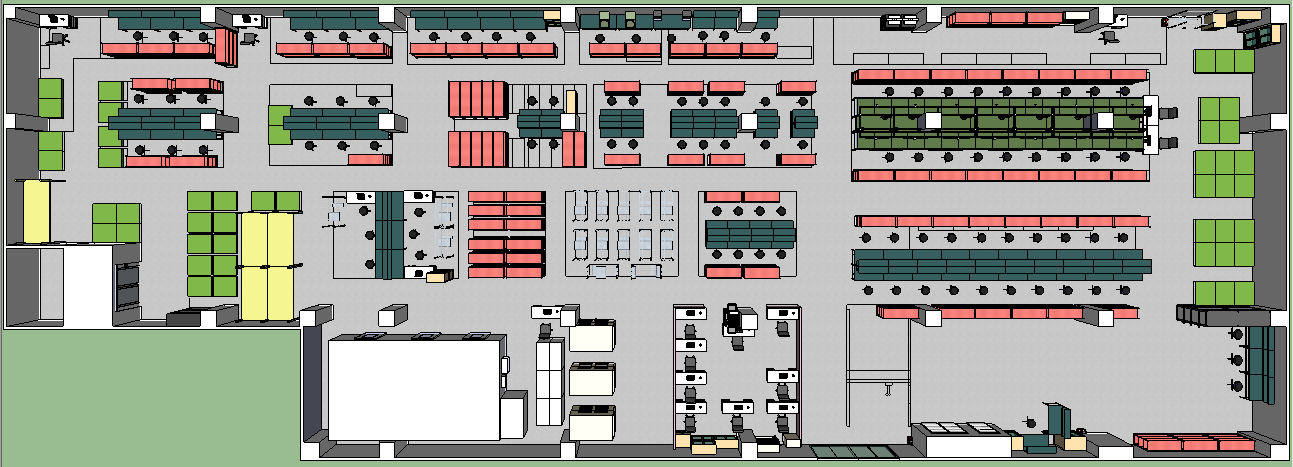
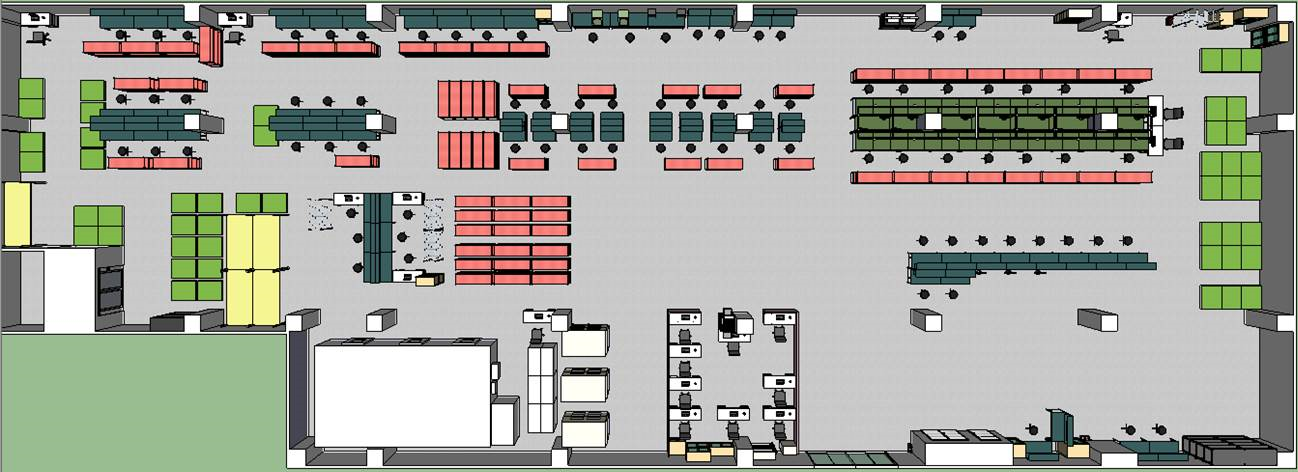
TotalMap update complete

diff --git a/src/main/webapp/js/totalMap-setting/6f.js b/src/main/webapp/js/totalMap-setting/6f.js
@@ -3,44 +3,38 @@ var pYa = 0;
 
 var mapInfo = {
     titleName: "東湖廠6樓",
-    x: 950,
-    y: 50
+    x: 30,
+    y: 395
 };
 
 var titleGroup = [
     //assy
-    {lineName: "L1", x: 810, y: 265},
-    {lineName: "L2", x: 810, y: 175},
-    {lineName: "L3", x: 810, y: 105},
-    {lineName: "L4", x: 810, y: 25},
+    {lineName: "L1", x: 1055, y: 260},
+    {lineName: "L2", x: 1055, y: 155},
+    {lineName: "L3", x: 1055, y: 90},
+    {lineName: "L4", x: 1055, y: 0},
     //pkg
-    {lineName: "L6", x: 90, y: 235},
-    {lineName: "L7", x: 90, y: 150},
-    {lineName: "L8", x: 285, y: 175},
-    {lineName: "L9", x: 285, y: 290},
-    {lineName: "CELL", x: 980, y: 185}
+    {lineName: "L6", x: 310, y: 195},
+    {lineName: "L7", x: 310, y: 100},
+    {lineName: "L8", x: 510, y: 160},
+    {lineName: "L9", x: 510, y: 290}
+//    {lineName: "CELL", x: 980, y: 185}
 ];
 var testGroup = [
-    {people: 4, x: 315, y: 80}, // group 39-42
-    {people: 4, x: 315, y: 130}, // group 35-38
-    {people: 5, x: 350, y: 200}, // group 30-34
-    {people: 5, x: 350, y: 280} // group 25-29
+    {people: 4, x: 545, y: 15}, // group 39-42
+    {people: 4, x: 545, y: 105}, // group 35-38
+    {people: 5, x: 590, y: 180}, // group 30-34
+    {people: 5, x: 595, y: 275} // group 25-29
 ];
 var babGroup = [
-    {people: 8, x: 530, y: 270, lineName: "L1"},
-    {people: 8, x: 530, y: 190, lineName: "L2"},
-    {people: 7, x: 530, y: 130, lineName: "L3"},
-    {people: 7, x: 530, y: 50, lineName: "L4"},
-    {people: 3, x: 0, y: 200, lineName: "L6"},
-    {people: 3, x: 8, y: 115, lineName: "L7"},
-    {people: 4, x: 145, y: 200, lineName: "L8"},
-    {people: 4, x: 135, y: 290, lineName: "L9"},
-    {people: 1, x: 910, y: 290, lineName: "CELL-10"},
-    {people: 1, x: 990, y: 290, lineName: "CELL-11"},
-    {people: 1, x: 1070, y: 290, lineName: "CELL-12"},
-    {people: 1, x: 1150, y: 290, lineName: "CELL-13"},
-    {people: 1, x: 890, y: 430, lineName: "CELL-14"},
-    {people: 1, x: 960, y: 430, lineName: "CELL-15"}
+    {people: 8, x: 770, y: 260, lineName: "L1"},
+    {people: 8, x: 770, y: 165, lineName: "L2"},
+    {people: 7, x: 770, y: 105, lineName: "L3"},
+    {people: 7, x: 770, y: 10, lineName: "L4"},
+    {people: 3, x: 205, y: 180, lineName: "L6"},
+    {people: 3, x: 205, y: 105, lineName: "L7"},
+    {people: 4, x: 365, y: 175, lineName: "L8"},
+    {people: 4, x: 365, y: 275, lineName: "L9"}
 ];
 
 var maxTestTableNo = 42;

diff --git a/src/main/webapp/js/totalMap-setting/5f.js b/src/main/webapp/js/totalMap-setting/5f.js
@@ -3,38 +3,35 @@ var pYa = -0;
 
 var mapInfo = {
     titleName: "東湖廠5樓",
-    x: 50,
-    y: 400
+    x: 30,
+    y: 395
 };
 
 var titleGroup = [
     {lineName: "LA", x: 1070, y: 50},
     {lineName: "LB", x: 1070, y: 160},
-    {lineName: "LC", x: 1070, y: 230},
-    {lineName: "LD", x: 1070, y: 300},
-    {lineName: "LH", x: 40, y: 120},
-    {lineName: "LG", x: 370, y: 80},
-    {lineName: "LF", x: 370, y: 160}
+//    {lineName: "LC", x: 1070, y: 230},
+//    {lineName: "LD", x: 1070, y: 300},
+    {lineName: "LH", x: 15, y: 120},
+    {lineName: "LG", x: 365, y: 50},
+    {lineName: "LF", x: 365, y: 155}
 ];
 
 var testGroup = [
-    {people: 1, x: 490, y: 70}, // group 24
-    {people: 1, x: 490, y: 150}, // group 23
-    {people: 7, x: 530, y: 70}, // group 16-22
-    {people: 7, x: 530, y: 150}, // group 9-15
-    {people: 4, x: 620, y: 190}, // group 5-8
-    {people: 4, x: 620, y: 275} // group 1-4
+    {people: 2, x: 680, y: 30}, // group 19-20
+    {people: 9, x: 450, y: 75}, // group 10-18
+    {people: 9, x: 450, y: 160} // group 1-9
 ];
 
 var babGroup = [
     {people: 7, x: 820, y: 60, lineName: "LA"},
     {people: 7, x: 820, y: 170, lineName: "LB"},
-    {people: 8, x: 790, y: 220, lineName: "LC"},
-    {people: 8, x: 790, y: 310, lineName: "LD"},
-    {people: 3, x: 100, y: 160, lineName: "LH"},
-    {people: 3, x: 260, y: 90, lineName: "LG"},
-    {people: 3, x: 260, y: 160, lineName: "LF"}
+//    {people: 8, x: 790, y: 220, lineName: "LC"},
+//    {people: 8, x: 790, y: 310, lineName: "LD"},
+    {people: 3, x: 90, y: 160, lineName: "LH"},
+    {people: 3, x: 250, y: 70, lineName: "LG"},
+    {people: 3, x: 250, y: 155, lineName: "LF"}
 ];
 
-var maxTestTableNo = 24;
+var maxTestTableNo = 20;
 var sitefloor = 5;

diff --git a/src/main/webapp/js/cell-setting/6f.js b/src/main/webapp/js/cell-setting/6f.js
@@ -2,10 +2,10 @@ var pXa = -0;
 var pYa = -0;
 
 var cellGroup = [
-    {people: 1, x: 1150, y: 280, lineName: "10"},
-    {people: 1, x: 1070, y: 280, lineName: "11"},
-    {people: 1, x: 995, y: 280, lineName: "12"},
-    {people: 1, x: 910, y: 280, lineName: "13"},
-    {people: 1, x: 890, y: 445, lineName: "14"},
-    {people: 1, x: 960, y: 445, lineName: "15"}
+//    {people: 1, x: 1150, y: 280, lineName: "10"},
+//    {people: 1, x: 1070, y: 280, lineName: "11"},
+//    {people: 1, x: 995, y: 280, lineName: "12"},
+//    {people: 1, x: 910, y: 280, lineName: "13"},
+//    {people: 1, x: 890, y: 445, lineName: "14"},
+//    {people: 1, x: 960, y: 445, lineName: "15"}
 ];

diff --git a/src/main/webapp/js/cell-setting/6f_1.js b/src/main/webapp/js/cell-setting/6f_1.js
@@ -4,10 +4,10 @@ var pXa = -0;
 var pYa = -0;
 
 var cellGroup = [
-    {people: 1, x: 1160, y: 190, lineName: "A"},
-    {people: 1, x: 1090, y: 190, lineName: "B"},
-    {people: 1, x: 1020, y: 190, lineName: "C"},
-    {people: 1, x: 950, y: 190, lineName: "D"},
-    {people: 1, x: 945, y: 345, lineName: "E"},
-    {people: 1, x: 1000, y: 345, lineName: "F"}
+//    {people: 1, x: 1160, y: 190, lineName: "A"},
+//    {people: 1, x: 1090, y: 190, lineName: "B"},
+//    {people: 1, x: 1020, y: 190, lineName: "C"},
+//    {people: 1, x: 950, y: 190, lineName: "D"},
+//    {people: 1, x: 945, y: 345, lineName: "E"},
+//    {people: 1, x: 1000, y: 345, lineName: "F"}
 ];
